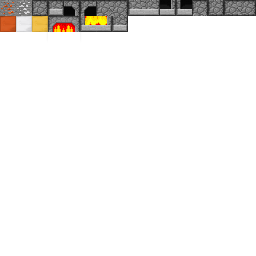
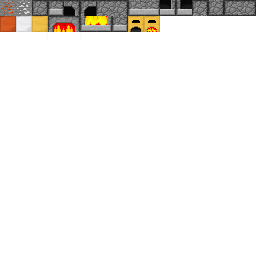
Added custom texture to boiler

Changed region(s): [[0.5, 0.0625, 0.625, 0.125]]

diff --git a/mcp/src/minecraft/steamcraft/steamcraft/block/BlockBoiler.java b/mcp/src/minecraft/steamcraft/steamcraft/block/BlockBoiler.java
@@ -28,9 +28,9 @@ public class BlockBoiler extends BlockContainer {
 	private static boolean keepBoilerInventory = false;
 
 	public BlockBoiler(int par1, boolean par2) {
-		super(par1, Material.rock);
+		super(par1, Material.iron);
 		this.isActive = par2;
-		this.blockIndexInTexture = 45;
+		this.blockIndexInTexture = 24;
 	}
 
 	@Override
@@ -44,8 +44,7 @@ public class BlockBoiler extends BlockContainer {
 		this.setDefaultDirection(par1World, par2, par3, par4);
 	}
 
-	private void setDefaultDirection(World par1World, int par2, int par3,
-			int par4) {
+	private void setDefaultDirection(World par1World, int par2, int par3, int par4) {
 		if (!par1World.isRemote) {
 			int var5 = par1World.getBlockId(par2, par3, par4 - 1);
 			int var6 = par1World.getBlockId(par2, par3, par4 + 1);
@@ -75,16 +74,12 @@ public class BlockBoiler extends BlockContainer {
 
 	@Override
 	@SideOnly(Side.CLIENT)
-	public int getBlockTexture(IBlockAccess par1IBlockAccess, int par2, int par3, int par4, int par5) {
-		if (par5 == 1) {
-			return this.blockIndexInTexture + 17;
-		} else if (par5 == 0) {
-			return this.blockIndexInTexture + 17;
+	public int getBlockTexture(IBlockAccess blockAccess, int x, int y, int z, int side) {
+		if (side == 0 || side == 1) {
+			return 18;
 		} else {
-			int var6 = par1IBlockAccess.getBlockMetadata(par2, par3, par4);
-			return par5 != var6 ? this.blockIndexInTexture
-					: (this.isActive ? this.blockIndexInTexture + 16
-							: this.blockIndexInTexture - 1);
+			int front = blockAccess.getBlockMetadata(x, y, z);
+			return side != front ? 18 : (!this.isActive ? this.blockIndexInTexture : this.blockIndexInTexture + 1);
 		}
 	}
 
@@ -125,11 +120,8 @@ public class BlockBoiler extends BlockContainer {
 	}
 
 	@Override
-	public int getBlockTextureFromSide(int par1) {
-		return par1 == 1 ? this.blockIndexInTexture + 17
-				: (par1 == 0 ? this.blockIndexInTexture + 17
-						: (par1 == 3 ? this.blockIndexInTexture - 1
-								: this.blockIndexInTexture));
+	public int getBlockTextureFromSide(int side) {
+		return (side == 1 || side == 0) ? 18 : (side == 3 ? this.blockIndexInTexture : 18);
 	}
 
 	@Override
@@ -237,4 +229,10 @@ public class BlockBoiler extends BlockContainer {
 
 		super.breakBlock(par1World, par2, par3, par4, par5, par6);
 	}
+
+    @Override
+    public String getTextureFile()
+    {
+        return SteamCraft.BLOCKS_PNG;
+    }
 }
